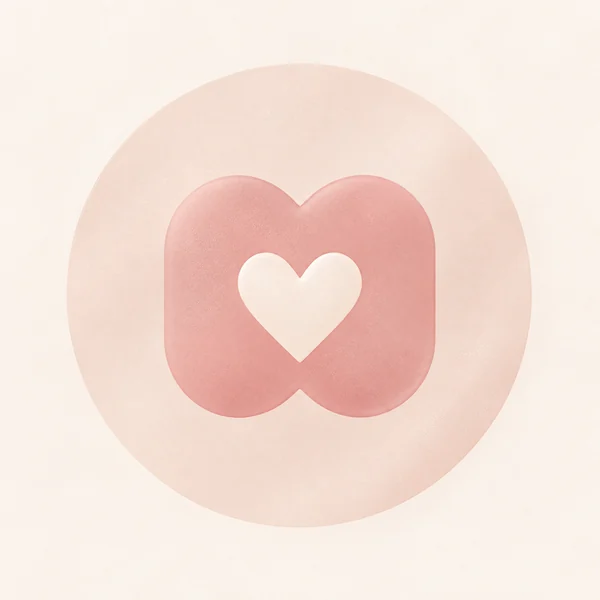
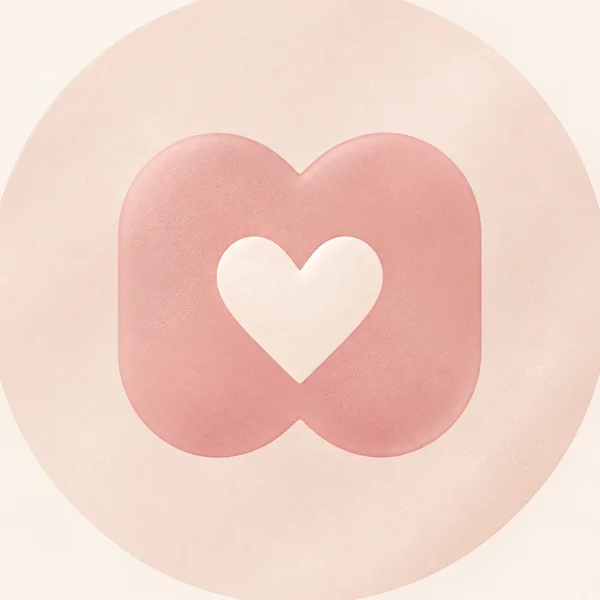
Círculos de categoría sin anillo, y arreglar el scroll al cambiar de pantalla
Las imágenes de Skincare coreano y Marcas traían un borde liso (54 px y
132 px) que en el recorte circular se veía como un anillo blanco. Se
recortan al contenido: 1,12x y 1,34x, sin margen liso restante.

Aparte, overflow-x:hidden en html,body convertía al body en contenedor
de scroll propio: el documento informaba 844 px de alto con 5730 px de
contenido, y window.scrollTo(0,0) no tenía efecto, así que al abrir una
ficha de producto la página se quedaba donde estaba. Se reemplaza por
overflow-x:clip, que evita la barra horizontal sin crear el contenedor,
con respaldo para navegadores viejos, y la subida al inicio se hace
sobre el elemento que realmente scrollea.

El sello de versión ahora incluye la lógica de index.html: un cambio en
renderVals invalida los componentes guardados en la CDN, que era
exactamente lo que había roto los círculos.

diff --git a/Lume Beauty.dc.html b/Lume Beauty.dc.html
@@ -3,7 +3,7 @@
 <head>
 <meta charset="utf-8">
 <meta name="viewport" content="width=device-width, initial-scale=1">
-<script>window.__DC_BUILD="7009bbb349"</script>
+<script>window.__DC_BUILD="be254fd030"</script>
 <script src="./support.js"></script>
 </head>
 <body>
@@ -15,7 +15,11 @@
 <link rel="preconnect" href="https://fonts.gstatic.com" crossorigin="anonymous">
 <link href="https://fonts.googleapis.com/css2?family=Cormorant+Garamond:ital,wght@0,400;0,500;0,600;1,400;1,500&amp;family=Jost:wght@300;400;500&amp;display=swap" rel="stylesheet">
 <style>
-html,body{margin:0;padding:0;background:#f3eae4;color:#3f2a26;font-family:'Jost',sans-serif;-webkit-font-smoothing:antialiased;overflow-x:hidden}
+html,body{margin:0;padding:0;background:#f3eae4;color:#3f2a26;font-family:'Jost',sans-serif;-webkit-font-smoothing:antialiased}
+/* clip evita la barra horizontal sin convertir al body en contenedor de scroll,
+   que es lo que dejaba sin efecto a window.scrollTo al cambiar de pantalla */
+html,body{overflow-x:clip}
+@supports not (overflow-x:clip){html,body{overflow-x:hidden}}
 *{box-sizing:border-box}
 a{color:#7a5248;text-decoration:none}
 a:hover{color:#4a231f}
@@ -290,7 +294,15 @@ class Component extends DCLogic {
     }
   }
 
-  go(view, extra) { this.setState(Object.assign({ view, menuOpen: false, searchOpen: false, cartOpen: false }, extra || {})); try { window.scrollTo(0, 0); } catch (e) {} }
+  go(view, extra) { this.setState(Object.assign({ view, menuOpen: false, searchOpen: false, cartOpen: false }, extra || {})); this.alInicio(); }
+  alInicio() {
+    try {
+      window.scrollTo(0, 0);
+      if (document.scrollingElement) document.scrollingElement.scrollTop = 0;
+      document.documentElement.scrollTop = 0;
+      document.body.scrollTop = 0;
+    } catch (e) {}
+  }
   norm(v) { return (v || '').toString().toLowerCase().normalize('NFD').replace(/[̀-ͯ]/g, ''); }
   money(v, cur) { return new Intl.NumberFormat('es-AR', { style: 'currency', currency: cur || 'ARS', maximumFractionDigits: 0 }).format(v); }
 

diff --git a/index.html b/index.html
@@ -3,7 +3,7 @@
 <head>
 <meta charset="utf-8">
 <meta name="viewport" content="width=device-width, initial-scale=1">
-<script>window.__DC_BUILD="7009bbb349"</script>
+<script>window.__DC_BUILD="be254fd030"</script>
 <script src="./support.js"></script>
 </head>
 <body>
@@ -15,7 +15,11 @@
 <link rel="preconnect" href="https://fonts.gstatic.com" crossorigin="anonymous">
 <link href="https://fonts.googleapis.com/css2?family=Cormorant+Garamond:ital,wght@0,400;0,500;0,600;1,400;1,500&amp;family=Jost:wght@300;400;500&amp;display=swap" rel="stylesheet">
 <style>
-html,body{margin:0;padding:0;background:#f3eae4;color:#3f2a26;font-family:'Jost',sans-serif;-webkit-font-smoothing:antialiased;overflow-x:hidden}
+html,body{margin:0;padding:0;background:#f3eae4;color:#3f2a26;font-family:'Jost',sans-serif;-webkit-font-smoothing:antialiased}
+/* clip evita la barra horizontal sin convertir al body en contenedor de scroll,
+   que es lo que dejaba sin efecto a window.scrollTo al cambiar de pantalla */
+html,body{overflow-x:clip}
+@supports not (overflow-x:clip){html,body{overflow-x:hidden}}
 *{box-sizing:border-box}
 a{color:#7a5248;text-decoration:none}
 a:hover{color:#4a231f}
@@ -290,7 +294,15 @@ class Component extends DCLogic {
     }
   }
 
-  go(view, extra) { this.setState(Object.assign({ view, menuOpen: false, searchOpen: false, cartOpen: false }, extra || {})); try { window.scrollTo(0, 0); } catch (e) {} }
+  go(view, extra) { this.setState(Object.assign({ view, menuOpen: false, searchOpen: false, cartOpen: false }, extra || {})); this.alInicio(); }
+  alInicio() {
+    try {
+      window.scrollTo(0, 0);
+      if (document.scrollingElement) document.scrollingElement.scrollTop = 0;
+      document.documentElement.scrollTop = 0;
+      document.body.scrollTop = 0;
+    } catch (e) {}
+  }
   norm(v) { return (v || '').toString().toLowerCase().normalize('NFD').replace(/[̀-ͯ]/g, ''); }
   money(v, cur) { return new Intl.NumberFormat('es-AR', { style: 'currency', currency: cur || 'ARS', maximumFractionDigits: 0 }).format(v); }
 
